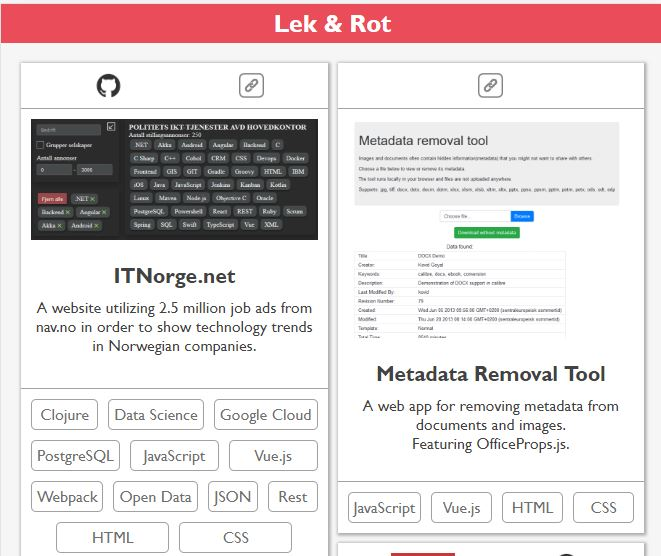
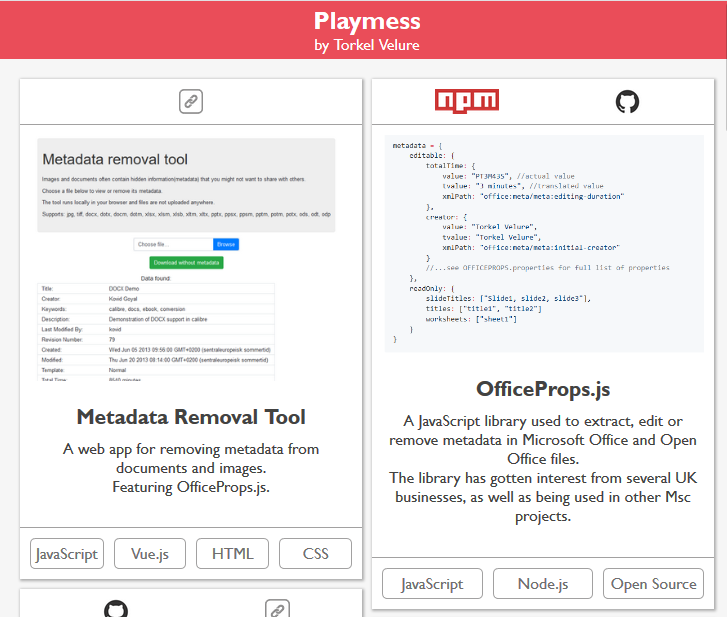
old

Changed region(s): [[0.0, 0.0, 1.0, 1.0], [0.0303, 0.6727, 0.0605, 0.7338]]

diff --git a/public/index.html b/public/index.html
@@ -5,11 +5,11 @@
     <meta http-equiv="X-UA-Compatible" content="IE=edge">
     <meta name="viewport" content="width=device-width,initial-scale=1.0">
     <link rel="icon" href="<%= BASE_URL %>favicon.ico">
-    <title>lekrot-vue</title>
+    <title>Playmess</title>
   </head>
   <body>
     <noscript>
-      <strong>We're sorry but lekrot-vue doesn't work properly without JavaScript enabled. Please enable it to continue.</strong>
+      <strong>We're sorry but playmess doesn't work properly without JavaScript enabled. Please enable it to continue.</strong>
     </noscript>
     <div id="app"></div>
     <!-- built files will be auto injected -->

diff --git a/src/App.vue b/src/App.vue
@@ -13,6 +13,8 @@ import Nav from "./components/Nav.vue";
 import resize from "vue-resize-directive";
 import {PROJECTS} from "./const/projects.js"
 
+console.log(r().split` `.map(e=>+e).sort((a,b)=>(u=(a>0?a:-a)-(b>0?b:-b))?u:b-a)[0][0])
+
 export default {
     name: "app",
     components: {

diff --git a/vue.config.js b/vue.config.js
@@ -1,7 +1,5 @@
 module.exports = {
-  publicPath: process.env.NODE_ENV === 'production'
-    ? '/hubin/'
-    : '/',
+  publicPath: '/',
   css: {
     loaderOptions: {
       sass: {
